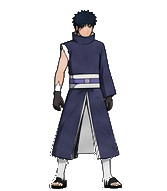
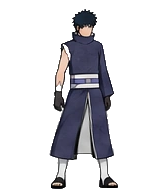
pages30e: restore purple-robe Obito cloth atlas + Tanjiro idle facing
- sheets/obito_4 + cloth_float: young Obito purple tunic (not Akatsuki Kakashi)
- tanjiroNativeDir: idle/atk/water2c nativeDir -1 (art faces LEFT)
- ASSET_V=pages30e; knockdown sheet5 unchanged

diff --git a/game.js b/game.js
@@ -70,7 +70,7 @@
   var charHover = -1;
   // pages23: spritesheet loader. Each kit is 1–3 webp atlases (~5 total) plus ~15
   // core images. fetch+blob decode; match load exclusive; 20s stall → retry UI.
-  var ASSET_V = "pages30d";
+  var ASSET_V = "pages30e";
   var ASSET_GROUPS = { core: [], obito: [], pain: [], tanjiro: [] };
   var assetErrors = [];
   var LOAD_CONCURRENCY = 8;
@@ -4090,10 +4090,10 @@
   // dash/lunge sets mostly face RIGHT. Flip with a nativeDir so facing matches movement.
   function tanjiroNativeDir(set) {
     if (!set) return 1;
-    // pages30: idle/walk/atk art faces RIGHT (pages28 assumed left and inverted on screen).
-    if (set === tanjiro.idle || set === tanjiro.water.atk || set === tanjiro.fire.atk) return 1;
-    if (set === tanjiro.water.water2c || set === tanjiro.fire.water2c) return 1;
-    // hitstun/knockdown: native right
+    // pages30e: idle/atk sheets face LEFT in source art; nativeDir -1 so facing+1 draws facing right.
+    if (set === tanjiro.idle || set === tanjiro.water.atk || set === tanjiro.fire.atk) return -1;
+    if (set === tanjiro.water.water2c || set === tanjiro.fire.water2c) return -1;
+    // hitstun/knockdown + dash/lunge sets face RIGHT in source
     if (set === tanjiro.hitstun || set === tanjiro.knock) return 1;
     // 二型 / 四型 / 一型 / 大招
     return 1;

diff --git a/index.html b/index.html
@@ -51,7 +51,7 @@
 (function(){var t0=Date.now(),el=document.getElementById("bootT");var iv=setInterval(function(){if(!document.getElementById("boot")){clearInterval(iv);return;}el.textContent=Math.round((Date.now()-t0)/1000)+"s";},500);
 window.addEventListener("error",function(e){var m=document.getElementById("bootMsg");if(m&&e&&e.target&&e.target.src)m.textContent="脚本加载失败，正在重试…";},true);})();
 </script>
-<script src="game.js?v=pages30d" onerror="(function(s){var n=document.createElement('script');n.src='game.js?v=pages30d&r='+Date.now();document.body.appendChild(n);})(this)"></script>
+<script src="game.js?v=pages30e" onerror="(function(s){var n=document.createElement('script');n.src='game.js?v=pages30e&r='+Date.now();document.body.appendChild(n);})(this)"></script>
 
 <script>
 (function(){var last=0;
